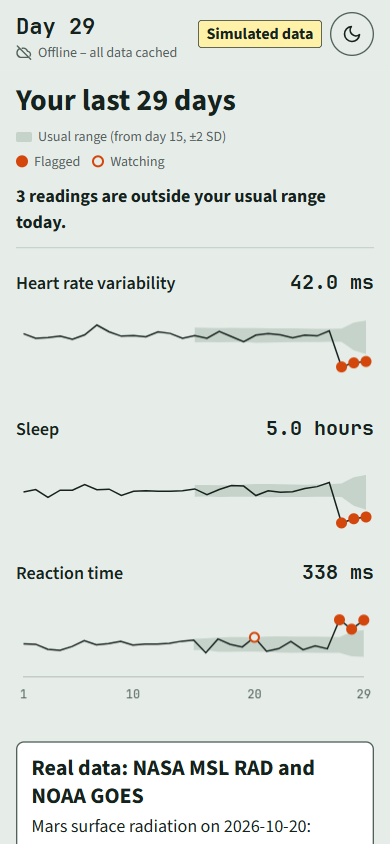
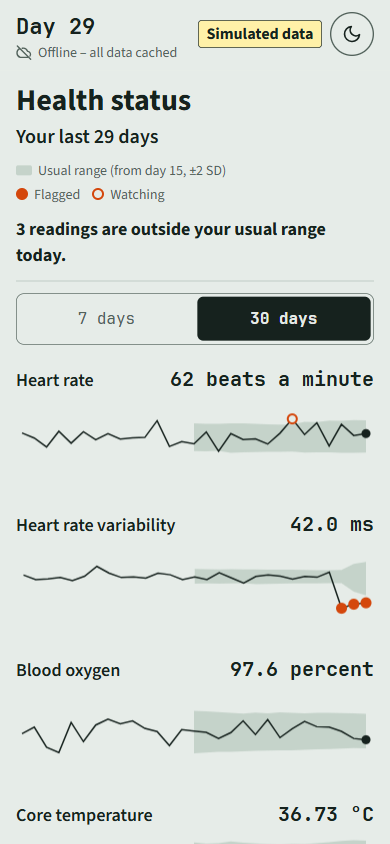
Console: trend view on all seven signals, 7 days / 30 days switch

diff --git a/app.js b/app.js
@@ -3,22 +3,23 @@
 // run on the simulated fixture plus today's self-check. Nothing is fetched from outside this folder.
 
 const TODAY = 29, NEXT = 30, ROUNDS = Reaction.ROUNDS;
-const CHANNELS = ["hrv_rmssd_ms", "sleep_hours", "reaction_ms"];
-const SELF_CHECK = ["reaction_ms", "sleep_hours", "mood_1to5"];
+const CHANNELS = ["heart_rate_bpm", "hrv_rmssd_ms", "spo2_pct", "core_temp_c", "sleep_hours", "mood_1to5", "reaction_ms"];const SELF_CHECK = ["reaction_ms", "sleep_hours", "mood_1to5"];
 const PREFIX = { osdr: "OSD-", ntrs: "NTRS " };
 const SIGNALS = {
   hrv_rmssd_ms: { name: "Heart rate variability", phrase: "Your heart rate variability today", unit: "ms", dp: 1, step: 10, low: "lower", high: "higher" },
   sleep_hours: { name: "Sleep", phrase: "Your sleep last night", unit: "hours", dp: 1, step: 1, low: "shorter", high: "longer" },
   reaction_ms: { name: "Reaction time", phrase: "Your reaction time today", unit: "ms", dp: 0, step: 50, low: "faster", high: "slower" },
-  mood_1to5: { name: "Mood", phrase: "Your mood today", unit: "of 5", diffUnit: "points", dp: 1, low: "lower", high: "higher" },
-  heart_rate_bpm: { name: "Heart rate", phrase: "Your heart rate today", unit: "beats a minute", dp: 0, low: "lower", high: "higher" },
-  spo2_pct: { name: "Blood oxygen", phrase: "Your blood oxygen today", unit: "percent", dp: 1, low: "lower", high: "higher" },
-  core_temp_c: { name: "Core temperature", phrase: "Your core temperature today", unit: "°C", dp: 2, low: "lower", high: "higher" },
+  // step for the four below: the smallest of 0.25, 0.5, 1, 2, 2.5, 5, 10 that gives three ticks on days 29 and 30
+  // of web/data/crew_a_anomaly.json (values plus usual range): 2 to 6, 50 to 70, 96 to 100, 36.5 to 37.0
+  mood_1to5: { name: "Mood", phrase: "Your mood today", unit: "of 5", diffUnit: "points", dp: 1, step: 2, low: "lower", high: "higher" },
+  heart_rate_bpm: { name: "Heart rate", phrase: "Your heart rate today", unit: "beats a minute", dp: 0, step: 10, low: "lower", high: "higher" },
+  spo2_pct: { name: "Blood oxygen", phrase: "Your blood oxygen today", unit: "percent", dp: 1, step: 2, low: "lower", high: "higher" },
+  core_temp_c: { name: "Core temperature", phrase: "Your core temperature today", unit: "°C", dp: 2, step: 0.25, low: "lower", high: "higher" },
 };
 
 const $ = (id) => document.getElementById(id);
 const css = (name) => getComputedStyle(document.documentElement).getPropertyValue(name).trim();
-const state = { fixture: [], evidence: {}, radiation: null, rows: [], flags: {}, day: TODAY, trials: [], recorded: false, charts: {}, current: null };
+const state = { fixture: [], evidence: {}, radiation: null, rows: [], flags: {}, day: TODAY, trials: [], recorded: false, charts: {}, current: null, range: 0 };
 
 // ---------- text ----------
 
@@ -30,6 +31,7 @@ function put(el, text) {
   return el;
 }
 const make = (tag, text, cls) => { const el = put(document.createElement(tag), text); if (cls) el.className = cls; return el; };
+const checked = (text) => put(document.createElement("span"), text).textContent; // for attributes such as aria-label
 
 const fmt = (signal, v, unit = SIGNALS[signal].unit) => `${v.toFixed(SIGNALS[signal].dp)} ${unit}`;
 // The numbers behind z (today, usual, spread) to one decimal everywhere; z uses the unrounded values,
@@ -308,28 +310,28 @@ function recompute(day) {
 }
 
 function drawChannel(signal) {
-  const rows = state.rows, last = rows.length - 1, vals = rows.map((r) => r[signal]);
-  const band = rows.map((_, i) => (i < Rules.MIN_HISTORY_DAYS ? null : Rules.baseline(vals.slice(0, i))));
-  const marks = rows.map((r) => (state.flags[r.day] || []).find((f) => f.signal === signal));
+  // Band and marks come from the full record (web/trend.js); the 7-day view only cuts the last days off it.
+  const full = Trend.series(state.rows, state.flags, signal, state.range);
+  const { days, vals, band, marks } = full.shown, last = days.length - 1;
   const box = document.querySelector(`[data-signal="${signal}"]`), canvas = box.querySelector("canvas");
   const [ink, quiet, scrub, flag] = ["--ink", "--quiet", "--scrub", "--flag"].map(css), mono = { family: css("--mono") };
   const range = (b) => `${fmt(signal, b.mean - 2 * b.sd)} to ${fmt(signal, b.mean + 2 * b.sd)}`;
-  const flagged = rows.filter((_, i) => marks[i]).map((r) => r.day);
+  const flagged = days.filter((_, i) => marks[i]);
   const bottom = signal === CHANNELS.at(-1), step = SIGNALS[signal].step;
-  const span = [...vals, ...band.filter(Boolean).flatMap((b) => [b.mean - 2 * b.sd, b.mean + 2 * b.sd])];
+  const span = [...full.vals, ...full.band.filter(Boolean).flatMap((b) => [b.mean - 2 * b.sd, b.mean + 2 * b.sd])];
   const yMin = Math.max(0, Math.floor(Math.min(...span) / step) * step); // three ticks, all whole steps; none below zero
   const yMax = yMin + Math.ceil((Math.max(...span) - yMin) / (2 * step)) * 2 * step;
 
   put(box.querySelector(".val"), fmt(signal, vals[last]));
-  canvas.setAttribute("aria-label",
-    `${SIGNALS[signal].name}, days 1 to ${rows[last].day}. Today ${fmt(signal, vals[last])}; usual range ${range(band[last])}. ` +
-    (flagged.length ? `Outside the usual range on days ${listWords(flagged.map(String))}.` : "No days outside the usual range."));
+  canvas.setAttribute("aria-label", checked(
+    `${SIGNALS[signal].name}, days ${days[0]} to ${days[last]}. Today ${fmt(signal, vals[last])}; usual range ${range(band[last])}. ` +
+    (flagged.length ? `Outside the usual range on day${flagged.length > 1 ? "s" : ""} ${listWords(flagged.map(String))}.` : "No day shown is outside the usual range.")));
 
   state.charts[signal]?.destroy();
   state.charts[signal] = new Chart(canvas, {
     type: "line",
     data: {
-      labels: rows.map((r) => r.day),
+      labels: days,
       datasets: [
         {
           data: vals, order: 0, borderColor: ink, borderWidth: 1.5,
@@ -367,7 +369,7 @@ function drawChannel(signal) {
           border: { color: css("--rule") },
           ticks: {
             autoSkip: false, maxRotation: 0, color: quiet, font: mono,
-            callback: (_, i) => { const d = rows[i].day; return d === 1 || d % 10 === 0 || i === last ? d : ""; },
+            callback: (_, i) => { const d = days[i]; return state.range || d === 1 || d % 10 === 0 || i === last ? d : ""; }, // 7 days: every day
           },
         },
         y: {
@@ -391,11 +393,20 @@ $("theme-btn").addEventListener("click", () => {
   if (Object.keys(state.charts).length) CHANNELS.forEach(drawChannel);
 });
 
+// 7 days · 30 days switch (design P7b). Not saved on the device; "Start the demo again" sets it back to 30 days.
+function setRange(days) {
+  state.range = days;
+  for (const b of document.querySelectorAll("[data-range]")) b.setAttribute("aria-pressed", String(+b.dataset.range === days));
+  if (!state.rows.length) return;
+  put($("console-days"), `Your last ${days ? Math.min(days, state.rows.length) : state.rows.length} days`);
+  CHANNELS.forEach(drawChannel);
+}
+for (const b of document.querySelectorAll("[data-range]")) b.addEventListener("click", () => setRange(+b.dataset.range));
+
 function renderConsole() {
   const day = state.day, n = flagsFor(day).filter((r) => r.signal).length;
-  put($("console-title"), `Your last ${state.rows.length} days`);
   put($("legend-band"), `Usual range (from day ${Rules.MIN_HISTORY_DAYS + 1}, ±${Rules.THRESHOLD} SD)`);
-  CHANNELS.forEach(drawChannel);
+  setRange(state.range); // draws the charts
   put($("console-summary"), n === 0
     ? "Nothing is outside your usual range today."
     : `${n} ${n === 1 ? "reading is" : "readings are"} outside your usual range today.`);
@@ -587,6 +598,7 @@ $("restart").addEventListener("click", () => {
   clearTimeout(rt.timer);
   rt.state = "idle";
   Object.assign(state, { rows: [], flags: {}, day: TODAY, trials: [], recorded: false, current: null });
+  setRange(0); // back to 30 days
   rtShow("Tap here to start");
   rtStatus();
   $("rt-again").hidden = true;

diff --git a/index.html b/index.html
@@ -137,6 +137,14 @@ fieldset { border: 0; padding: 0; margin: 28px 0 0; min-width: 0; }
 .plot { position: relative; height: 96px; }
 .channel.bottom .plot { height: 118px; }
 .summary-line { margin-bottom: 8px; padding-bottom: 12px; border-bottom: 1px solid var(--rule); font-weight: 700; }
+.days-line { margin: -4px 0 8px; font-size: 20px; font-weight: 600; }
+/* 7 days · 30 days (design P7b): one framed control, the pressed half filled. */
+.range { display: grid; grid-template-columns: 1fr 1fr; gap: 4px; margin: 12px 0 0; padding: 3px; border: 1px solid var(--strong); border-radius: 8px; }
+.range button {
+  min-height: 44px; border: 0; border-radius: 6px; background: none; color: var(--quiet);
+  font-family: var(--mono); font-size: 16px; cursor: pointer; touch-action: manipulation;
+}
+.range button[aria-pressed="true"] { background: var(--ink); color: var(--scrub); font-weight: 600; }
 /* Two no-wrap units: the band, and "Flagged" with "Watching". On phones they sit in two tidy rows,
    on wider screens in one; a single item is never left alone on a line. */
 .legend { display: flex; flex-wrap: wrap; gap: 4px 12px; list-style: none; padding: 0; margin: 0 0 12px; font-size: 14px; color: var(--quiet); }
@@ -316,18 +324,39 @@ fieldset { border: 0; padding: 0; margin: 28px 0 0; min-width: 0; }
 </section>
 
 <section id="console" aria-labelledby="console-title" hidden>
-  <h1 id="console-title" tabindex="-1">Your last 29 days</h1>
+  <h1 id="console-title" tabindex="-1">Health status</h1>
+  <p id="console-days" class="days-line">Your last 29 days</p>
   <ul class="legend" aria-label="Chart key">
     <li><span class="key band"></span><span id="legend-band">Usual range</span></li>
     <li><span><span class="key dot"></span>Flagged</span><span><span class="key ring"></span>Watching</span></li>
   </ul>
   <p id="console-summary" class="summary-line"></p>
+  <div class="range" role="group" aria-label="Days shown">
+    <button type="button" data-range="7" aria-pressed="false">7 days</button>
+    <button type="button" data-range="0" aria-pressed="true">30 days</button>
+  </div>
+  <div class="channel" data-signal="heart_rate_bpm">
+    <div class="channel-head"><span>Heart rate</span><span class="val"></span></div>
+    <div class="plot"><canvas role="img"></canvas></div>
+  </div>
   <div class="channel" data-signal="hrv_rmssd_ms">
     <div class="channel-head"><span>Heart rate variability</span><span class="val"></span></div>
     <div class="plot"><canvas role="img"></canvas></div>
   </div>
+  <div class="channel" data-signal="spo2_pct">
+    <div class="channel-head"><span>Blood oxygen</span><span class="val"></span></div>
+    <div class="plot"><canvas role="img"></canvas></div>
+  </div>
+  <div class="channel" data-signal="core_temp_c">
+    <div class="channel-head"><span>Core temperature</span><span class="val"></span></div>
+    <div class="plot"><canvas role="img"></canvas></div>
+  </div>
   <div class="channel" data-signal="sleep_hours">
     <div class="channel-head"><span>Sleep</span><span class="val"></span></div>
+    <div class="plot"><canvas role="img"></canvas></div>
+  </div>
+  <div class="channel" data-signal="mood_1to5">
+    <div class="channel-head"><span>Mood</span><span class="val"></span></div>
     <div class="plot"><canvas role="img"></canvas></div>
   </div>
   <div class="channel bottom" data-signal="reaction_ms">
@@ -403,8 +432,9 @@ fieldset { border: 0; padding: 0; margin: 28px 0 0; min-width: 0; }
 </main>
 <script src="vendor/chart.umd.js?v=943f58faf8"></script>
 <script src="rules.js?v=9280e87989"></script>
+<script src="trend.js?v=076b8d7565"></script>
 <script src="reaction.js?v=0c373ca889"></script>
 <script src="store.js?v=986788a7d2"></script>
-<script src="app.js?v=7612e563de"></script>
+<script src="app.js?v=bf9af0dc9f"></script>
 </body>
 </html>

diff --git a/trend.js b/trend.js
@@ -1,0 +1,23 @@
+"use strict";
+// Chart series for one signal, kept apart from the page so tests/test_web.py can run it in node.
+// The usual-range band and the flag marks are computed on the full record, then the last `days` are cut
+// for display, so the 7-day view shows the same values as the 30-day view for those days. Display only.
+(function (root) {
+  const Rules = root.Rules || require("./rules.js");
+
+  // rows: the record shown on the console; flags: Rules.evaluate(rows); days: 7, or 0 for the whole record.
+  function series(rows, flags, signal, days) {
+    const vals = rows.map((r) => r[signal]);
+    const band = rows.map((_, i) => (i < Rules.MIN_HISTORY_DAYS ? null : Rules.baseline(vals.slice(0, i))));
+    const marks = rows.map((r) => (flags[r.day] || []).find((f) => f.signal === signal) || null);
+    const from = days ? Math.max(0, rows.length - days) : 0;
+    return {
+      vals, band, // full record: the y-axis fits these, so both views share one scale
+      shown: { days: rows.slice(from).map((r) => r.day), vals: vals.slice(from), band: band.slice(from), marks: marks.slice(from) },
+    };
+  }
+
+  const api = { series };
+  if (typeof module === "object" && module.exports) module.exports = api;
+  else root.Trend = api;
+})(this);
